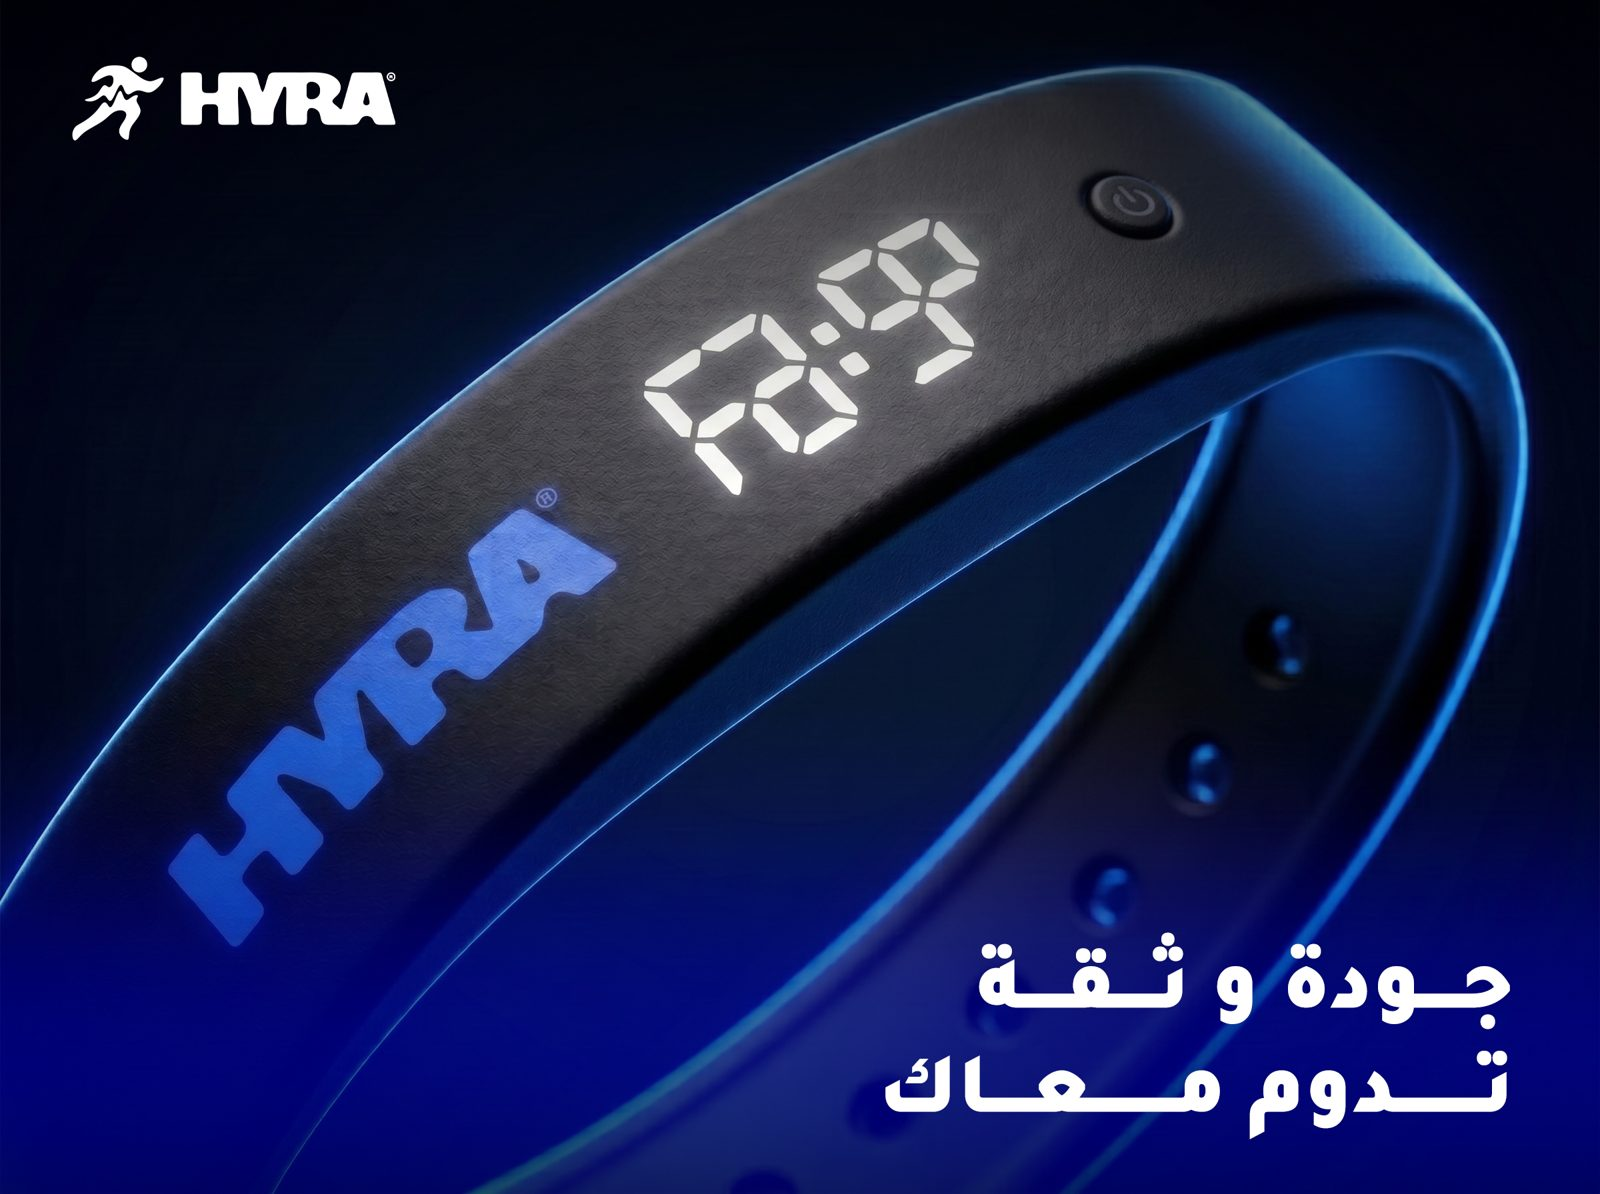
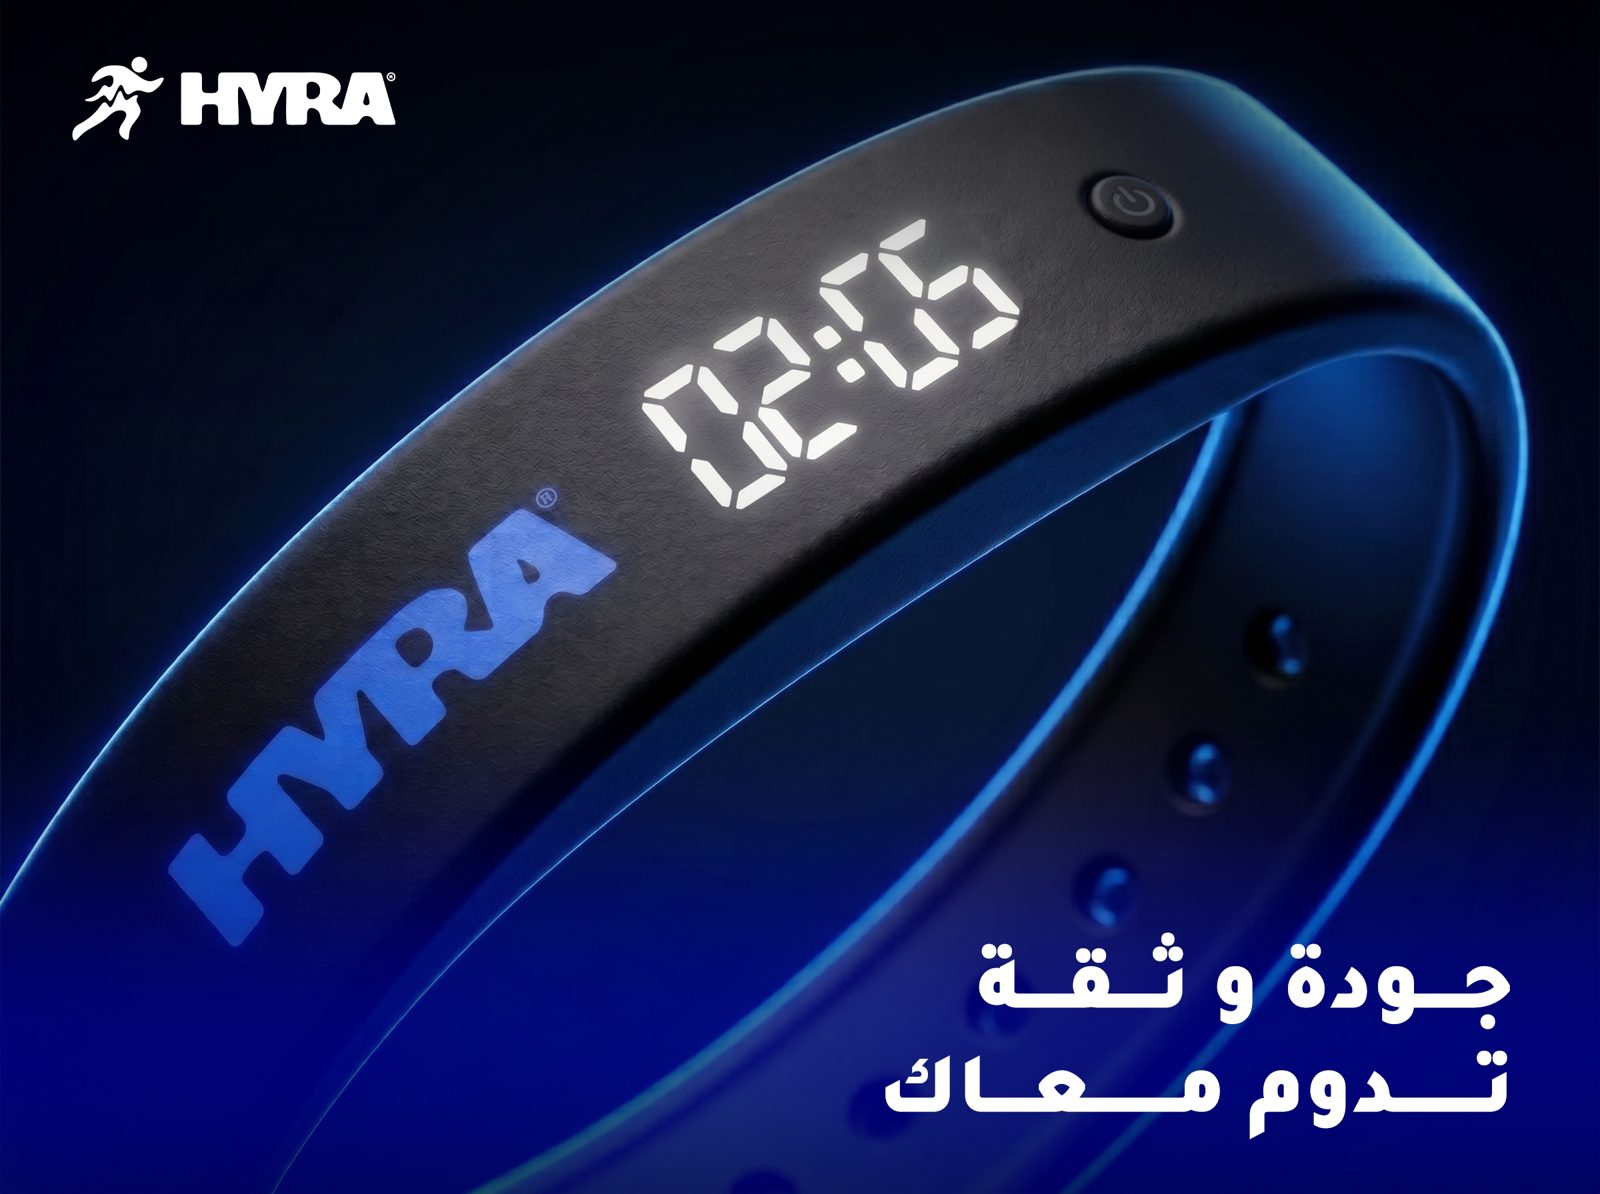
update

Changed region(s): [[0.4062, 0.1859, 0.6562, 0.4338]]

diff --git a/index.html b/index.html
@@ -431,7 +431,7 @@
     <div class="hyra-container">
       <div class="hyra-section__head"><h2 class="hyra-h2">مواصفات السوار</h2></div>
       <div class="hyra-specs">
-        <div class="hyra-specs__media"><div class="hyra-img-placeholder">صورة (specs)</div></div>
+        <div class="hyra-specs__media"><img src="images/specs.jpg" alt="مواصفات سوار HYRA" class="hyra-hero__img"></div>
         <ul class="hyra-specs__list">
           <li><div><strong>الشاشة</strong><span>LED عالية الوضوح</span></div><em>💡</em></li>
           <li><div><strong>البطارية</strong><span>تدوم حتى 10 أيام</span></div><em>🔋</em></li>
@@ -448,10 +448,10 @@
     <div class="hyra-container">
       <div class="hyra-section__head"><h2 class="hyra-h2">يناسب كل أسلوب حياة</h2></div>
       <div class="hyra-lifestyle">
-        <div class="hyra-life-card"><div class="hyra-img-placeholder hyra-img-placeholder--card">صورة</div><h3>في النادي</h3><p>يتابع تمرينك ونبضك لحظة بلحظة</p></div>
-        <div class="hyra-life-card"><div class="hyra-img-placeholder hyra-img-placeholder--card">صورة</div><h3>في العمل</h3><p>يذكرك بالحركة ويحسن تركيزك</p></div>
-        <div class="hyra-life-card"><div class="hyra-img-placeholder hyra-img-placeholder--card">صورة</div><h3>أثناء الجري</h3><p>يسجل خطواتك ومسافاتك بدقة</p></div>
-        <div class="hyra-life-card"><div class="hyra-img-placeholder hyra-img-placeholder--card">صورة</div><h3>أثناء القيادة</h3><p>إشعارات وتنبيهات بدون تشتيت</p></div>
+        <div class="hyra-life-card"><img src="images/gym.jpg" alt="في النادي" class="hyra-life-card__img"><h3>في النادي</h3><p>يتابع تمرينك ونبضك لحظة بلحظة</p></div>
+        <div class="hyra-life-card"><img src="images/work.jpg" alt="في العمل" class="hyra-life-card__img"><h3>في العمل</h3><p>يذكرك بالحركة ويحسن تركيزك</p></div>
+        <div class="hyra-life-card"><img src="images/running.jpg" alt="أثناء الجري" class="hyra-life-card__img"><h3>أثناء الجري</h3><p>يسجل خطواتك ومسافاتك بدقة</p></div>
+        <div class="hyra-life-card"><img src="images/driving.jpg" alt="أثناء القيادة" class="hyra-life-card__img"><h3>أثناء القيادة</h3><p>إشعارات وتنبيهات بدون تشتيت</p></div>
       </div>
     </div>
   </section>
@@ -506,7 +506,7 @@
   <section class="hyra-final">
     <div class="hyra-final__glow"></div>
     <div class="hyra-container hyra-final__grid">
-      <div class="hyra-final__media"><div class="hyra-img-placeholder">صورة (القسم الأخير)</div></div>
+      <div class="hyra-final__media"><img src="images/final.jpg" alt="HYRA اختيارك الأمثل" class="hyra-hero__img"></div>
       <div class="hyra-final__content">
         <h2 class="hyra-h2" style="text-align:right">جاهز تبدأ يومك بأفضل طاقة؟</h2>
         <p class="hyra-sub" style="text-align:right">اطلب سوار HYRA الذكي الآن وعش الفرق بنفسك.</p>